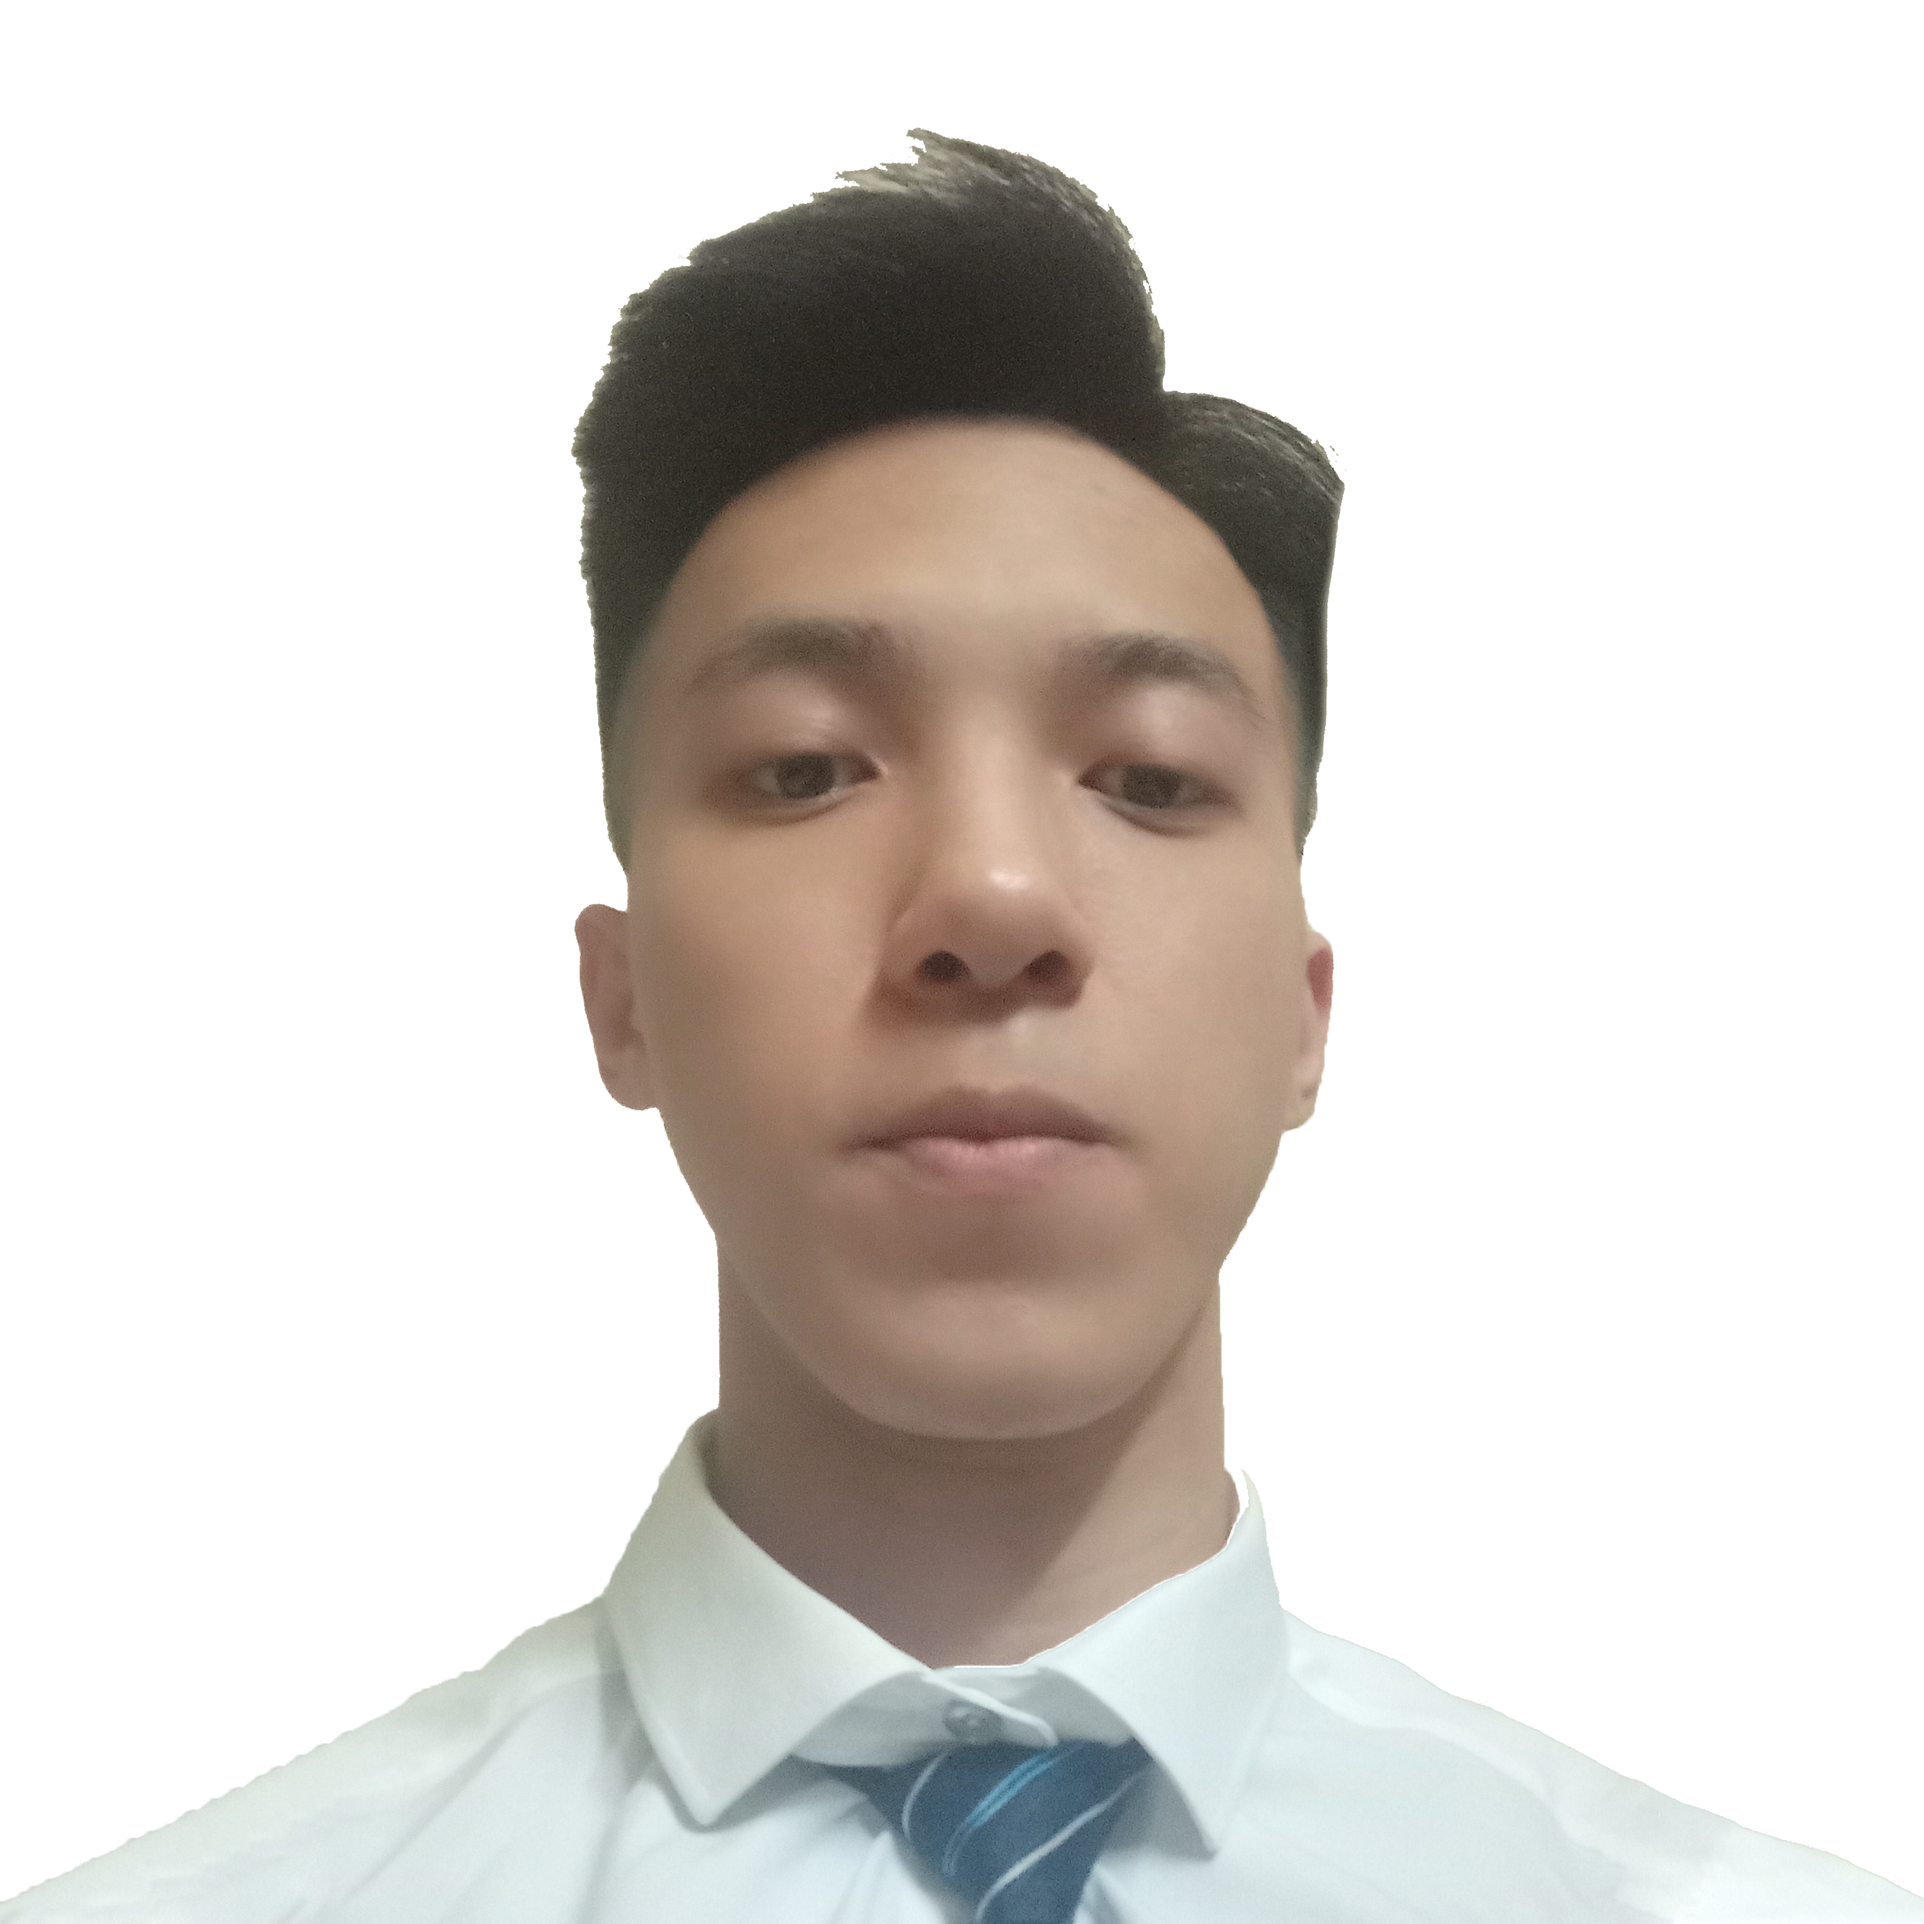
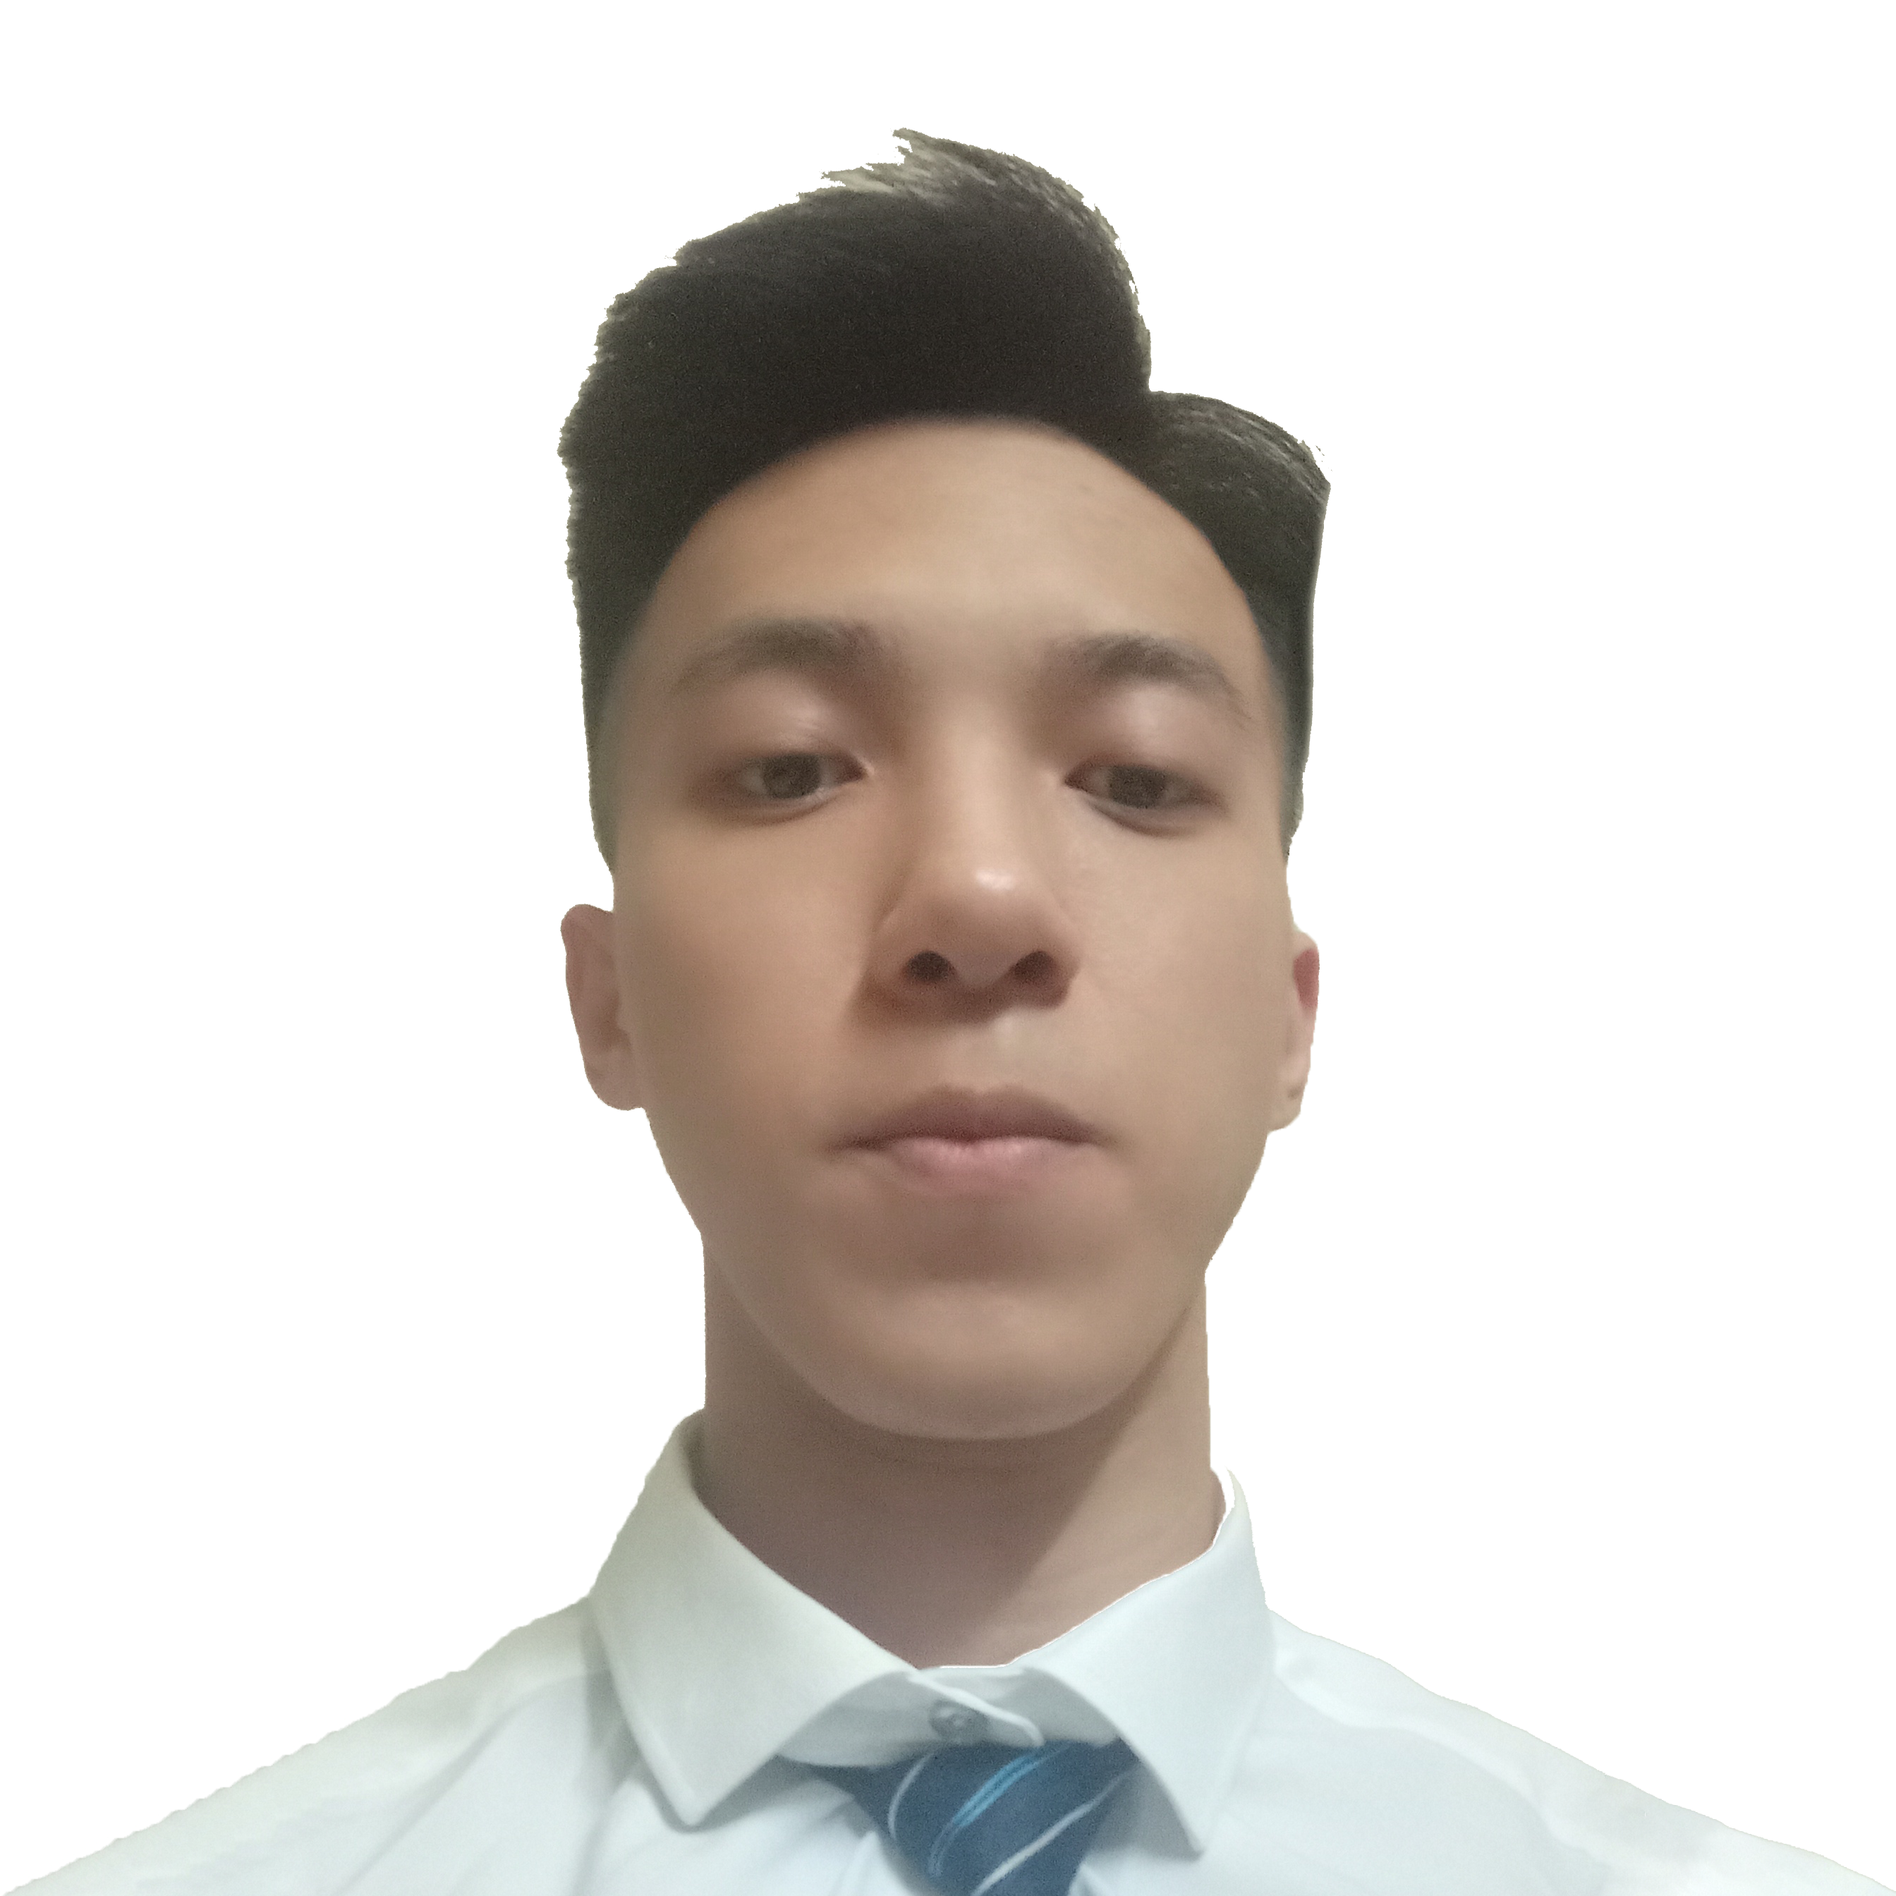
change image

diff --git a/index.html b/index.html
@@ -48,7 +48,7 @@
             <div class="intro">
               <div class="intro--banner">
                 <h1>Hi, I'm Hoang Long<br>Software Engineering</h1>
-                <img src="assets/img/myfirst.png" alt="Welcome">
+                <img src="assets/img/myfirst.png" style="width: 40%;" alt="Welcome">
               </div>
               <div class="intro--options">
                 <a href="#0">
